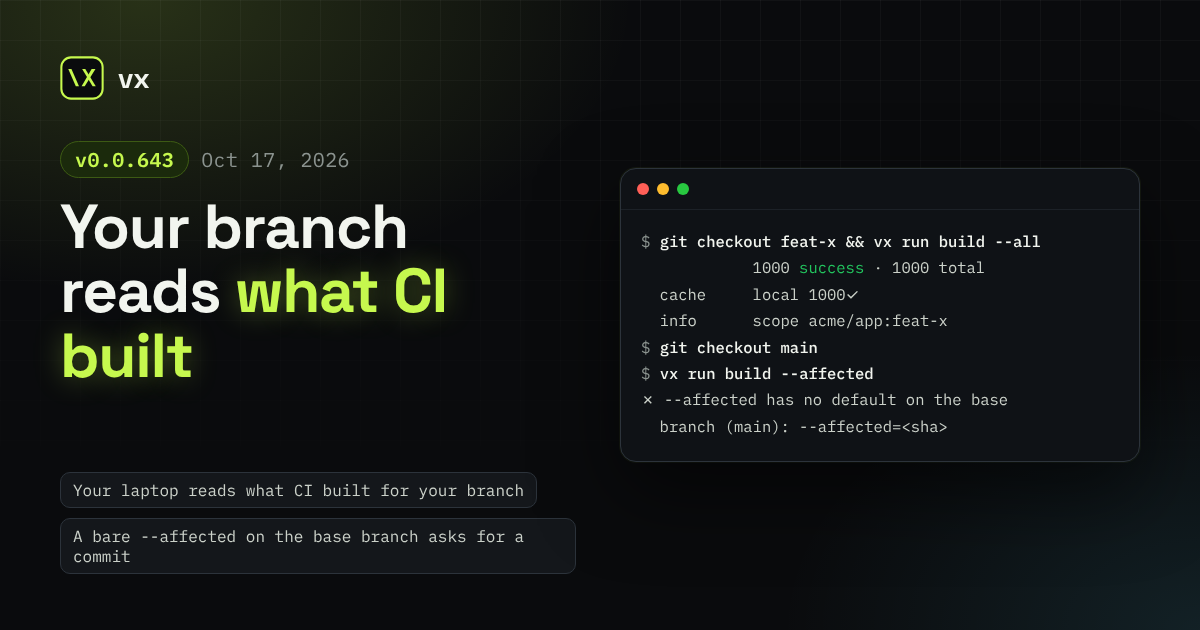
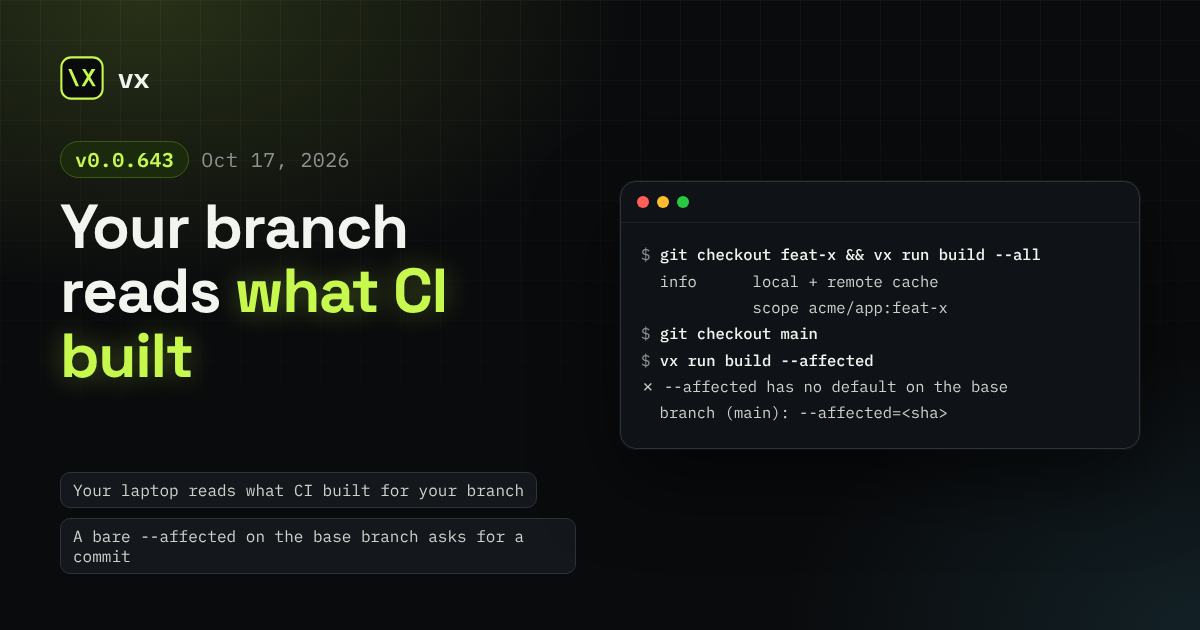
docs(vx-docs): match the scope info row to the signed change file
Claude-Session: https://claude.ai/code/session_01VJXgsMkfMPFR7myuFKdVwZ

Changed region(s): [[0.5242, 0.3619, 0.8633, 0.6937], [0.5242, 0.2714, 0.5858, 0.3317]]

diff --git a/packages/vx-docs/src/content/docs/releases/vx-0-0-643.md b/packages/vx-docs/src/content/docs/releases/vx-0-0-643.md
@@ -57,11 +57,7 @@ branch it keeps under the task key, so the same inputs hit locally on
 any branch, main included. The summary's `info` row names the scope:
 
 ```sh frame="terminal"
-$ vx run build --all
-            1000 success · 1000 total
-  cache     local 1000✓
-
-  info      4 workers · local cache · scope acme/bench:feat · run 01a14ba0-302b-739b-8e41-3c22baa5de16
+  info      4 workers · local + remote cache · scope acme/app:feat-x · run …
 ```
 
 What a branch changed is the diff from a pull request's base commit
